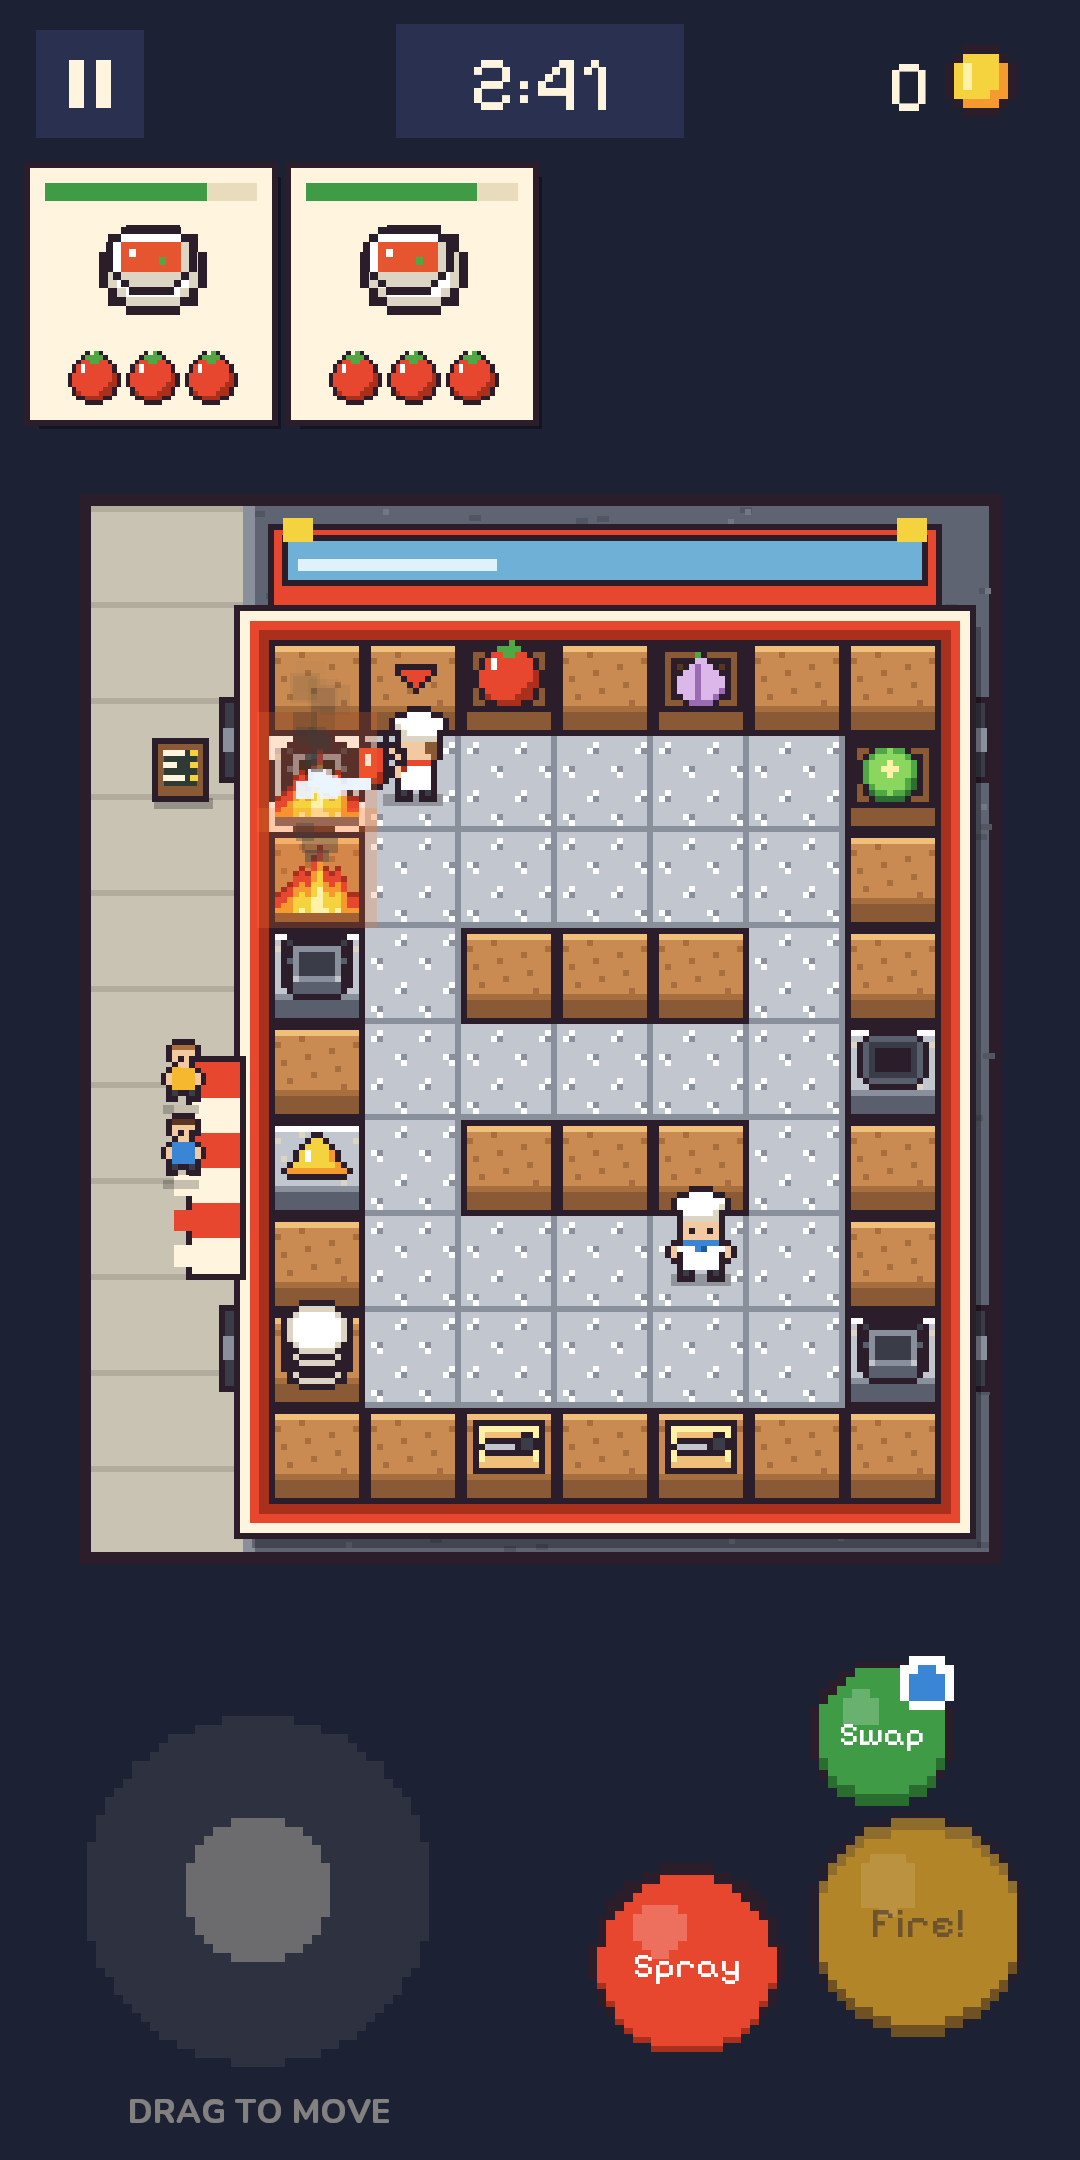
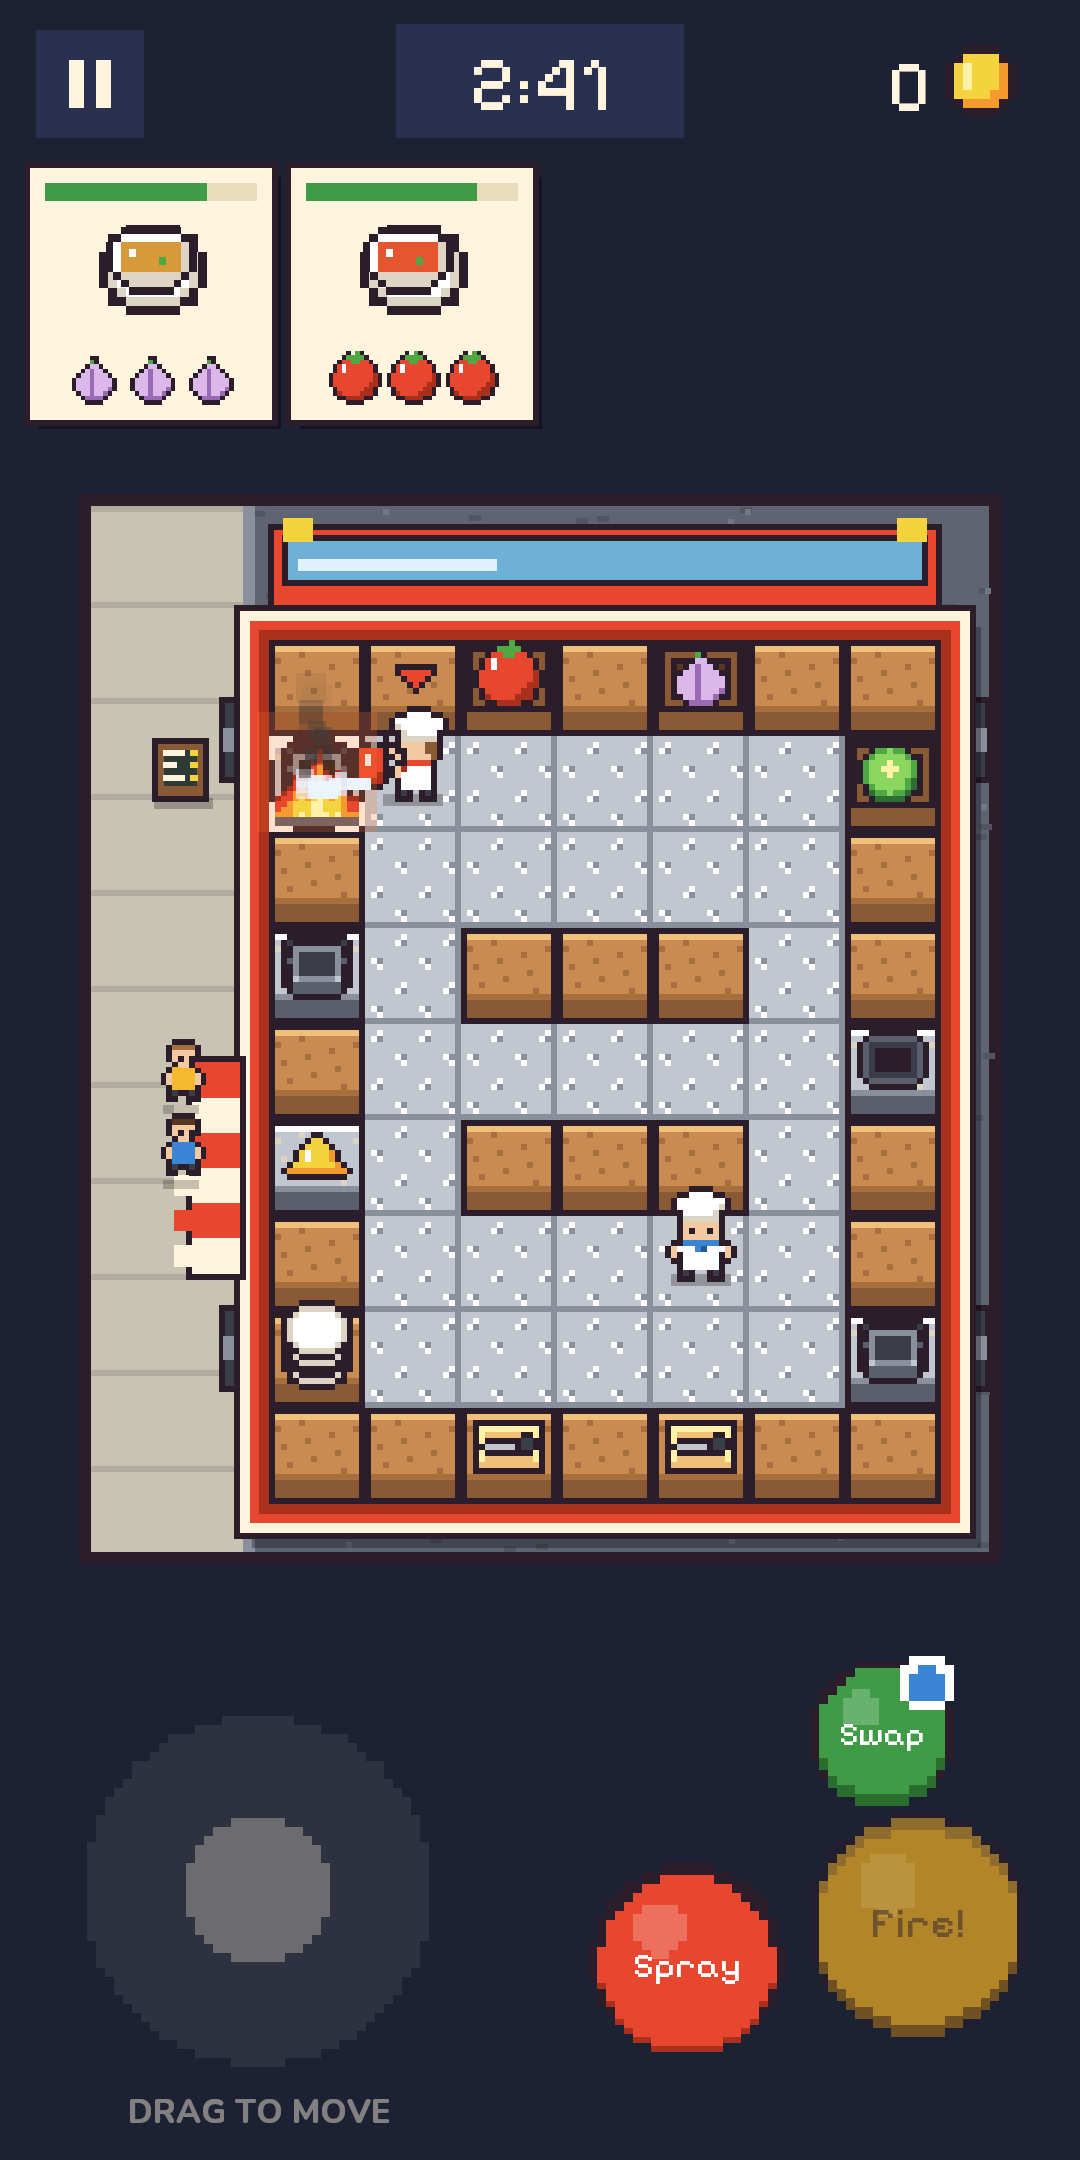
Store screenshots: keep the Delivery Runs and the Judge secret
Swap the Judge and Delivery Run shots for pizza at Corner Slice and the kitchen
shop, and take the wardrobe shot from a normal save so Judge's Whites stays hidden.

Claude-Session: https://claude.ai/code/session_01Gm6pAdAhajsFbCi4vw3PWV

Changed region(s): [[0.2444, 0.3102, 0.3667, 0.4343], [0.0611, 0.1551, 0.2139, 0.1861], [0.0917, 0.0931, 0.1833, 0.1241]]

diff --git a/SearPressureUnity/Tools/Harness/StoreShots.cs b/SearPressureUnity/Tools/Harness/StoreShots.cs
@@ -60,27 +60,35 @@ static partial class Tests
                 Wake(k.g); Program.Shot(k.g, "03-fire.png");
                 k.g.KeyUp("KeyE");
             }
-            // 4. The Judge's Table: one strike already.
+            // 4. Pizza at Corner Slice: sauce on, cheese going on, one in the oven.
+            // (No Judge or Delivery Run shots: those are secrets.)
             {
-                var k = new K(Lvl("The Judge's Table"), true, w, h, dpr);
-                Program.Run(k.g, 5);
-                k.ChopInto("lettuce", null);
-                k.Grab(FreeCounter); k.Grab(Plate); k.Grab(t => t.item != null && t.item.kind == "lettuce");
-                k.Grab(Serve, 0.6);
-                Wake(k.g); Program.Shot(k.g, "04-judge.png");
+                var k = new K(Lvl("Corner Slice"), true, w, h, dpr);
+                Program.Run(k.g, 7);
+                k.Grab(k.Crate("dough")); k.Grab(t => t.type == "board" && t.item == null);
+                k.Chop(t => t.type == "board" && t.item != null);
+                var b = k.G.tiles.First(t => t.type == "board" && t.item != null);
+                k.Grab(k.Crate("sauce")); k.Grab(t => t == b);
+                k.Grab(k.Crate("cheese")); k.Grab(t => t == b);
+                k.Grab(t => t == b); k.Grab(t => t.type == "oven" && t.item == null);
+                Program.Run(k.g, 1.5);
+                k.Grab(k.Crate("dough")); k.Grab(t => t.type == "board" && t.item == null);
+                k.Chop(t => t.type == "board" && t.item != null && t.item.kind == "dough", 1.0);
+                Wake(k.g); Program.Shot(k.g, "04-pizza.png");
             }
-            // 5. A Delivery Run.
+            // 5. Kitchen upgrades in the shop.
             {
-                var g = Program.NewGame(DrivePlatform(true), w, h, dpr); Program.Run(g, 0.2);
-                g.startDrive(0); Program.Run(g, 3.4);
-                g.input.keys["KeyW"] = true; Program.Run(g, 2.5);
-                g.input.keys["KeyD"] = true; g.KeyDown("Space", false); Program.Run(g, 0.6);
-                g.input.keys["KeyD"] = false; g.KeyUp("Space"); Program.Run(g, 1.2);
-                Program.Shot(g, "05-delivery-run.png");
+                var g = Program.NewGame(new HarnessPlatform(), w, h, dpr); g.onlineEnabled = false; Program.Run(g, 0.1);
+                g.save.tutorialDone = true; g.save.wallet = 1240;
+                int[] st = { 3, 3, 2, 3, 2, 1 };
+                for (int i = 0; i < st.Length; i++) g.save.stars[i] = st[i];
+                g.save.owned["pots"] = true;
+                g.openShop("kitchen"); Program.Run(g, 0.3);
+                Program.Shot(g, "05-shop.png");
             }
-            // 6. Wardrobe.
+            // 6. Wardrobe (a normal save, so no secret outfits show).
             {
-                var g = Program.NewGame(new HarnessPlatform { unlock = true }, w, h, dpr); g.onlineEnabled = false; Program.Run(g, 0.1);
+                var g = Program.NewGame(new HarnessPlatform(), w, h, dpr); g.onlineEnabled = false; Program.Run(g, 0.1);
                 g.save.wallet = 860; g.save.owned["headband"] = true;
                 int[] st = { 3, 3, 2, 3, 2, 1 };
                 for (int i = 0; i < st.Length; i++) g.save.stars[i] = st[i];
